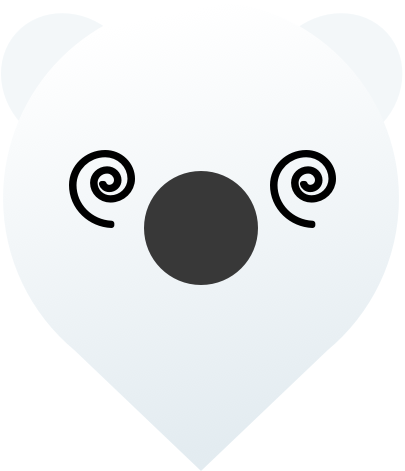
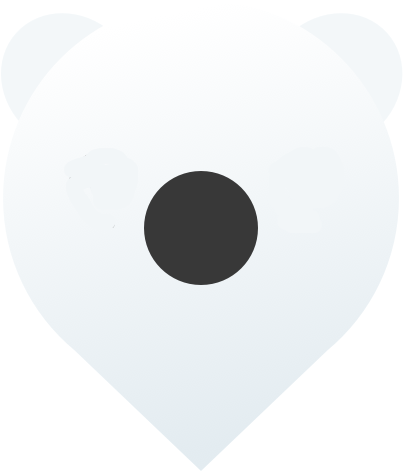
bloc roulette

Changed region(s): [[0.1481, 0.2972, 0.3556, 0.5053], [0.6519, 0.2972, 0.8296, 0.5053]]

diff --git a/lib/widgets/randy.dart b/lib/widgets/randy.dart
@@ -1,4 +1,5 @@
 import 'package:flutter/material.dart';
+import 'dart:math';
 
 enum RandyStatus { spinning, init, finish }
 
@@ -14,49 +15,109 @@ class Randy extends StatefulWidget {
   }
 }
 
-class RandyState extends State<Randy> {
+class RandyState extends State<Randy> with TickerProviderStateMixin {
   double scale = 1.0;
+  Animation<double> eyeAnimation;
+  AnimationController eyeController;
+
+  initState() {
+    super.initState();
+    eyeController = AnimationController(
+      duration: Duration(seconds: 3),
+      vsync: this,
+    );
+    eyeController.addStatusListener((status) {
+      if (status == AnimationStatus.completed) {
+        eyeController.reset();
+      }
+      eyeController.forward();
+    });
+
+    eyeAnimation = Tween<double>(begin: 0.0, end: pi * 2).animate(
+      CurvedAnimation(
+        parent: eyeController,
+        curve: Curves.linear,
+      ),
+    );
+
+    eyeController.forward();
+  }
 
   Widget build(BuildContext context) {
     return GestureDetector(
       onTap: widget.onTap,
       onTapDown: onPressStart,
       onTapUp: onPressEnd,
-      child: buildImage(),
+      onTapCancel: onPressCancel,
+      child: Container(
+        child: buildImage(),
+        width: 75.0 * scale,
+        height: 90.0 * scale,
+      ),
     );
   }
 
+  void onPressCancel() {
+    setState(() {
+      scale = 1.0;
+    });
+  }
+
   void onPressEnd(TapUpDetails details) {
-    print('press end');
     setState(() {
       scale = 1.0;
     });
   }
 
   void onPressStart(TapDownDetails details) {
-    print('press start');
-
     setState(() {
-      scale = 1.15;
+      scale = 0.90;
     });
   }
 
   Widget buildImage() {
-    return Image.asset(
-      imagePath,
-      width: 90.0 * scale,
-      height: 90.0 * scale,
+    switch (widget.status) {
+      case RandyStatus.spinning:
+        return AnimatedBuilder(
+          animation: eyeAnimation,
+          builder: (context, child) {
+            return randySpinning();
+          },
+        );
+      case RandyStatus.finish:
+        return Image.asset('assets/randy_2.png');
+      default:
+        return Image.asset('assets/randy.png');
+    }
+  }
+
+  Widget randySpinning() {
+    return Stack(
+      children: <Widget>[
+        Image.asset('assets/randy_4.png'),
+        new Positioned(
+          child: buildEye(),
+          left: 10 * scale,
+          top: 26 * scale,
+        ),
+        new Positioned(
+          child: buildEye(),
+          right: 10 * scale,
+          top: 26 * scale,
+        ),
+      ],
     );
   }
 
-  String get imagePath {
-    switch (widget.status) {
-      case RandyStatus.spinning:
-        return 'assets/randy_4.png';
-      case RandyStatus.finish:
-        return 'assets/randy_2.png';
-      default:
-        return 'assets/randy.png';
-    }
+  Widget buildEye() {
+    return Transform.rotate(
+      child: Image.asset(
+        'assets/randy_4_eye.png',
+        width: 17 * scale,
+        height: 17 * scale,
+      ),
+      alignment: Alignment.center,
+      angle: eyeAnimation.value,
+    );
   }
 }

diff --git a/lib/screens/roulette.dart b/lib/screens/roulette.dart
@@ -33,6 +33,7 @@ class RouletteScreenState extends State<RouletteScreen>
   StreamSubscription rouletteSubscription;
   AudioCache audioPlayer;
   RandyStatus randyStatus;
+  int selectedOptionIndex;
 
   initState() {
     super.initState();
@@ -122,8 +123,11 @@ class RouletteScreenState extends State<RouletteScreen>
     if (status != AnimationStatus.completed) {
       return;
     }
+    var value = (spinAnimation.value / pi / 2 - 0.25) % 1;
+    int index = options.length - (value * options.length).floor() - 1;
     setState(() {
       randyStatus = RandyStatus.finish;
+      selectedOptionIndex = index;
     });
     audioPlayer.play('tick.mp3');
     Vibrate.feedback(FeedbackType.heavy);
@@ -152,14 +156,15 @@ class RouletteScreenState extends State<RouletteScreen>
 
   onSpinning() {
     var value = (spinAnimation.value / pi / 2 - 0.25) % 1;
-    int index = (value * options.length).floor();
-    final RouletteOption option = options[options.length - 1 - index];
+    int index = options.length - (value * options.length).floor() - 1;
+    final RouletteOption option = options[index];
     title$.sink.add(option.title);
   }
 
   spinRoulette() {
     setState(() {
       randyStatus = RandyStatus.spinning;
+      selectedOptionIndex = null;
     });
     spinTween.end = pi * 2 * (9.0 + random.nextDouble());
     spinController.reset();
@@ -177,7 +182,7 @@ class RouletteScreenState extends State<RouletteScreen>
       children: <Widget>[
         AnimatedBuilder(
           animation: spinAnimation,
-          child: Roulette(options: options),
+          child: Roulette(options: options, selected: selectedOptionIndex),
           builder: (context, child) {
             return Transform.rotate(
               child: child,

diff --git a/lib/widgets/roulette.dart b/lib/widgets/roulette.dart
@@ -2,17 +2,26 @@ import 'package:flutter/material.dart';
 import '../models/roulette_option.dart';
 import 'dart:math';
 
-class Roulette extends StatelessWidget {
+class Roulette extends StatefulWidget {
   final List<RouletteOption> options;
+  final int selected;
 
-  Roulette({@required this.options});
+  Roulette({@required this.options, @required this.selected});
 
+  @override
+  State<Roulette> createState() {
+    return _RouletteState();
+  }
+}
+
+class _RouletteState extends State<Roulette> {
   @override
   Widget build(BuildContext context) {
     return CustomPaint(
       size: Size(800, 800),
       painter: RoulettePainter(
-        options: options,
+        options: widget.options,
+        selected: widget.selected,
       ),
       child: Container(),
     );
@@ -20,9 +29,10 @@ class Roulette extends StatelessWidget {
 }
 
 class RoulettePainter extends CustomPainter {
-  RoulettePainter({this.options});
+  RoulettePainter({this.options, this.selected});
 
   final List<RouletteOption> options;
+  final int selected;
 
   @override
   void paint(Canvas canvas, Size size) {
@@ -38,7 +48,12 @@ class RoulettePainter extends CustomPainter {
 
     for (int i = 0; i < options.length; i++) {
       RouletteOption option = options[i];
-      paint.shader = RadialGradient(colors: option.colors).createShader(rect);
+      if (selected == null || selected == i) {
+        paint.shader = RadialGradient(colors: option.colors).createShader(rect);
+      } else {
+        paint.shader = null;
+        paint.color = Colors.grey[350];
+      }
 
       double radians = 2 * pi / options.length;
       var textPainter = getTextPainter(option.title);
